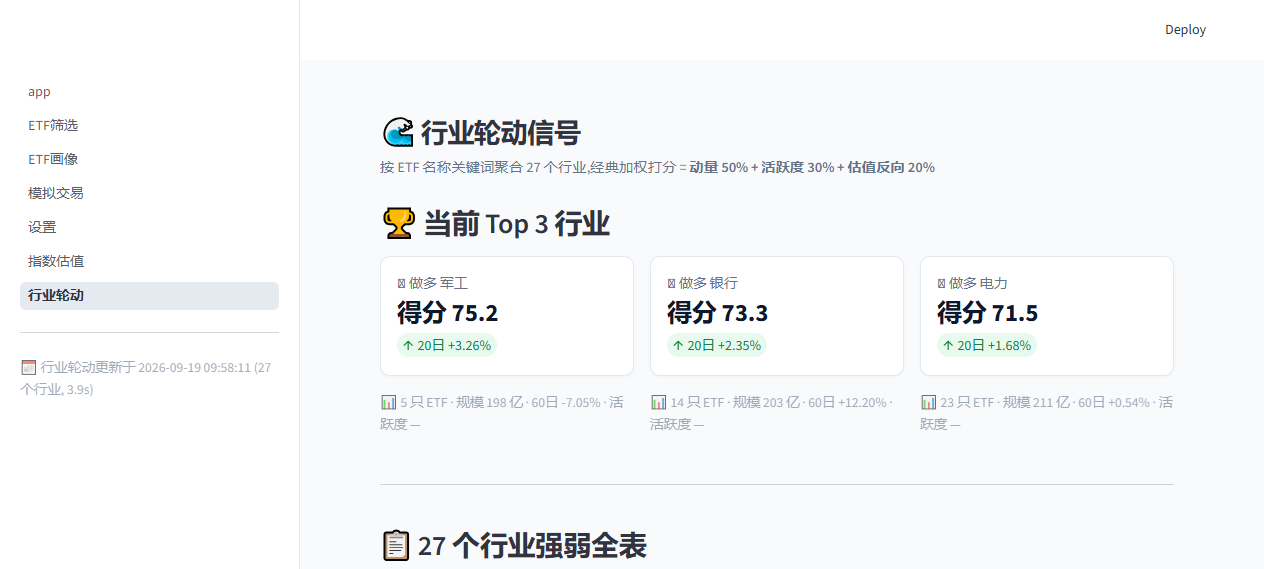
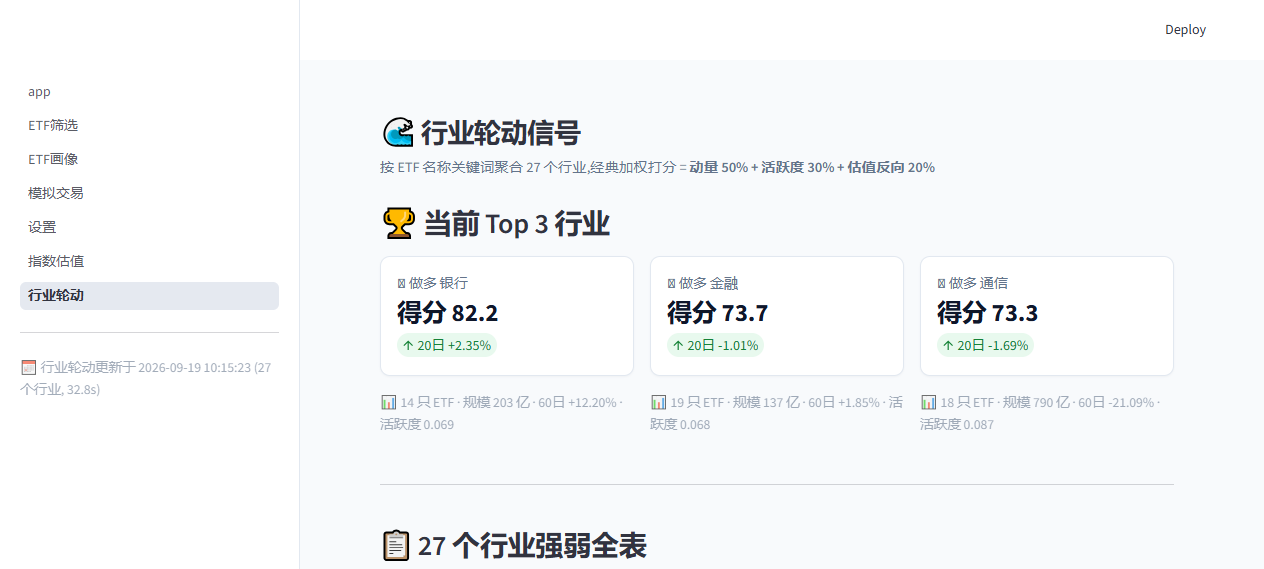
fix(industry_rotation): 行业活跃度字段 NULL 修复
**根因**
live.py 的新浪源 RESULT_COLUMNS 不含 amount/premium_rate
  -> industry_rotation._get(code, 'amount') 永远 None
  -> total_amount = 0
  -> activity = 0
  -> round(0, 4) if 0 else None -> 0 是 falsy -> 落 None
  -> 27/27 行业 activity 字段全空

**修法**
- collector/industry_rotation.py 启动时一次性从本地 daily_quotes 预加载
  每个 ETF 最近一日的成交额(code -> amount)
- 行业聚合时 live_amount 用本地日线兜底:
  members['live_amount'].fillna(members['code'].map(daily_amount_map))

**结果**
- 27/27 activity 字段非空
- 重新打分, Top 3 变成 银行 82.2 / 金融 73.7 / 通信 73.3
- 单次采集 32.8s (从本地库读 amount 无网络延迟)

**截图**
07_industry_rotation_v13.png 重截: 活跃度 0.069/0.068/0.087 全部有值

diff --git a/collector/industry_rotation.py b/collector/industry_rotation.py
@@ -81,6 +81,20 @@ def _compute_industry_metrics(verbose: bool = True) -> pd.DataFrame:
     def _get(code: str, key: str, default=None):
         return live_map.get(code, {}).get(key, default)
 
+    # 行业 ETF 池:每个行业的 amount 从本地最近一日行情取(优先有成交额的那天)
+    # live.py 的新浪源目前没 amount 字段,只能用 daily_quotes 兜底
+    daily_amount_map: dict[str, float] = {}
+    try:
+        for _code in etf_list["code"].tolist():
+            _q = storage.load_quotes(_code)
+            if _q is None or _q.empty or "amount" not in _q.columns:
+                continue
+            _last = _q.dropna(subset=["amount"]).tail(1)
+            if not _last.empty:
+                daily_amount_map[_code] = float(_last["amount"].iloc[0])
+    except Exception:  # noqa: BLE001
+        daily_amount_map = {}
+
     rows: list[dict] = []
     for ind_name, kw in INDUSTRY_KEYWORDS:
         # 1. 选行业 ETF
@@ -129,6 +143,8 @@ def _compute_industry_metrics(verbose: bool = True) -> pd.DataFrame:
         members["live_chg"] = members["code"].map(lambda c: _get(c, "chg_pct"))
         members["live_amount"] = members["code"].map(lambda c: _get(c, "amount"))
         members["premium"] = members["code"].map(lambda c: _get(c, "premium_rate"))
+        # 成交额兜底:新浪源无 amount 字段时用本地最近一日的 amount
+        members["live_amount"] = members["live_amount"].fillna(members["code"].map(daily_amount_map))
         members["live_chg"] = members["live_chg"].fillna(members["chg_1d"])
 
         # 4. 行业聚合
